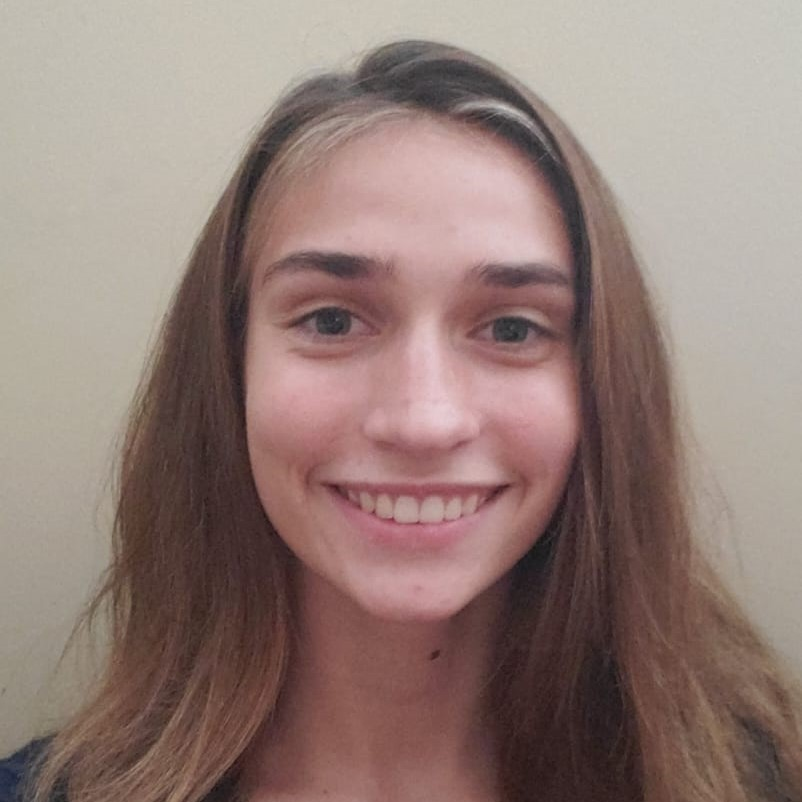
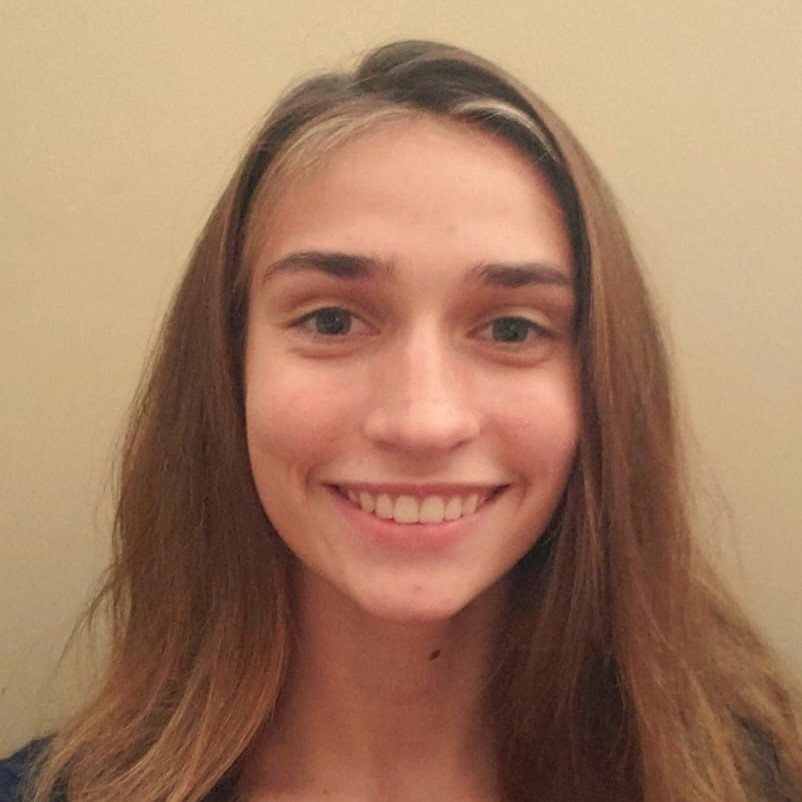
Color Grading/About Edits

diff --git a/nebula-details.html b/nebula-details.html
@@ -121,9 +121,20 @@
               <h2>To Make My Game Endevours Easier</h2>
               <p>
                 <br>Nebula is a collection of reusable tools that I've built to make my game dev journeys easier and quicker. This is my favorite type of software; build a complicated system once and then use it indefinitely.</br>
-                <br><strong>State Machine</strong>: This tool is my design for an easily configurable state machine. In traditional state machines, transitions between states can have a somewhat annoying coupling between different state classes. With my design you add states to a state machine with a list of allowed transitions and a state priority. The state machine will handle the state transitions based off of each state's conditions for entry and priority. In practice this has helped me with two things: I can visualize my state graph easier, often without the use of a physical diagram, and modifying state transitions is quicker. Furthermore, I tried to eliminate more coupling with what I'm calling delegated states. Along with my state machine I have an abstract state class that I've implemented using completely delegated functions. This means a single manager class can manage all the state implementations and the data that each state needs doesn't need to be passed around, copied, or referenced more than once for the state machine to function properly. When I put all of this together I've been able to extreamly easily and quickly put together a state system. This generic code is in my Nebula repository on GitHub, which is linked above, but if you'd like to see a more detailed example/implementation of this system please view this platformer project that I'm working on <a href="https://github.com/Tiane-Maestas/First-Platformer">here</a>; I also used this state machine for the player controller in my puzzle game that is posted in my portfolio.</br>
-                <br><strong>Sound Manager</strong>: This tool is my design for a scene's sound management. It will configure and manage four types of in game sounds: Background, Ambient, Conditional Background, and Conditional Ambient. Background sounds are sounds that can always be heard by the player such as backgound music. Ambient sounds are sounds that have an in game location associated with them such as fire. These sounds will respond to where the palyer is in the scene; if the player is far away the sound will be quiet. Conditional sound types cary the same attributes as their respective bases but do not loop. These are things such as footsteps which should only play while the player is walking. The largest challenge with this system was implementing conditional, ambient sounds becuase there can be, practically, an infinite amount of objects that need a location for the sound source but also there needs to be a way for programtic access and modification of these sources. The details are slightly too combersome to explain consicely here but it is all documented in the code on GitHub. </br>
-                <br><strong>Utils</strong>: This is simply a collection of one off functions that perform a task that I had found myself needing constantly. Examples include: rotating a vector by a specified angle, printing text to the screen for debugging, and smoothing vector values by a specified ratio.</br>
+                <br><strong>State Machine</strong>: This tool is my design for an easily configurable state machine. In traditional state machines, transitions between states can have a somewhat annoying coupling between different state classes. With
+                my design you add states to a state machine with a list of allowed transitions and a state priority. The state machine will handle the state transitions based off of each state's conditions for entry and priority. In practice this has
+                helped me with two things: I can visualize my state graph easier, often without the use of a physical diagram, and modifying state transitions is quicker. Furthermore, I tried to eliminate more coupling with what I'm calling delegated
+                states. Along with my state machine I have an abstract state class that I've implemented using completely delegated functions. This means a single manager class can manage all the state implementations and the data that each state
+                needs doesn't need to be passed around, copied, or referenced more than once for the state machine to function properly. When I put all of this together I've been able to extreamly easily and quickly put together a state system. This
+                generic code is in my Nebula repository on GitHub, which is linked above, but if you'd like to see a more detailed example/implementation of this system please view this platformer project that I'm working on <a
+                  href="https://github.com/Tiane-Maestas/First-Platformer">here</a>; I also used this state machine for the player controller in my puzzle game that is posted in my portfolio.</br>
+                <br><strong>Sound Manager</strong>: This tool is my design for a scene's sound management. It will configure and manage four types of in game sounds: Background, Ambient, Conditional Background, and Conditional Ambient. Background
+                sounds are sounds that can always be heard by the player such as backgound music. Ambient sounds are sounds that have an in game location associated with them such as fire. These sounds will respond to where the palyer is in the
+                scene; if the player is far away the sound will be quiet. Conditional sound types cary the same attributes as their respective bases but do not loop. These are things such as footsteps which should only play while the player is
+                walking. The largest challenge with this system was implementing conditional, ambient sounds becuase there can be, practically, an infinite amount of objects that need a location for the sound source but also there needs to be a way
+                for programtic access and modification of these sources. The details are slightly too combersome to explain consicely here but it is all documented in the code on GitHub. </br>
+                <br><strong>Utils</strong>: This is simply a collection of one off functions that perform a task that I had found myself needing constantly. Examples include: rotating a vector by a specified angle, printing text to the screen for
+                debugging, and smoothing vector values by a specified ratio.</br>
               </p>
             </div>
           </div>

diff --git a/game-details.html b/game-details.html
@@ -109,7 +109,7 @@
             </div>
           </div>
 
-          <div class="col-lg-4"  style="overflow-y:auto; height: 500px;">
+          <div class="col-lg-4" style="overflow-y:auto; height: 500px;">
             <div class="portfolio-info">
               <h3>Project Information</h3>
               <ul>
@@ -121,10 +121,17 @@
             <div class="portfolio-description">
               <h2>My First Complete Game</h2>
               <p>
-                <br>The idea behind this game started out as a joke with a freind of mine which has lead this project to be treated more as practice and fun for myself rather than as an outlet for ambition or a source of income. If you are actually interested in playing the game I have a build for windows in the google drive link above.</br>
-                <br><strong>Premise</strong>: A caveman see's glimpses of shiny objects throughout a cave filled with magical stones. With his ingenius new invention, the slingshot, he uses these stones to solve puzzles and collect his presious, gleaming objects.</br>
-                <br><strong>Techincal Background</strong>: This game has two main game mechanics: Slingshotting magical stones and solving puzzles. The slingshot mechanic uses one of my top two game design patterns the Strategy Pattern. There are 7 different types of stones that the player can use to solve puzzles; each stone has a different behaviour. This changing behaviour is streamlined to implement, easy to follow, and easy to change/debug all because of some fancy use of dependency inversion; I absolutely love this pattern. The second mechanic, puzzles, are implemented using the Observer Pattern. This was a great way for me to decouple the dependencies between classes and make world building extreamly streamlined and easy. I created a small collection of prefabricated puzzle tools that could be pieced together any way I liked to eventually trigger a new part of the map to be unlocked; great pattern as well. There was a lot more that went on to get the game to this state but these two things are the biggest. Please checkout my other project posted named "Nebula" for some more insight on the software that I made during this time.</br> 
-                <br>I have worked on game projects before, but this was the first time I've finsihed a project with a complete, playable game loop. Overall this was a great experience for me. I thouroughly enjoyed the whole process and I am very proud of what I've learned and what I've produced in the relatively short amount of time I spent creating this. Thank you.</br> 
+                <br>The idea behind this game started out as a joke with a freind of mine which has lead this project to be treated more as practice and fun for myself rather than as an outlet for ambition or a source of income. If you are actually
+                interested in playing the game I have a build for windows in the google drive link above.</br>
+                <br><strong>Premise</strong>: A caveman see's glimpses of shiny objects throughout a cave filled with magical stones. With his ingenius new invention, the slingshot, he uses these stones to solve puzzles and collect his presious,
+                gleaming objects.</br>
+                <br><strong>Techincal Background</strong>: This game has two main game mechanics: Slingshotting magical stones and solving puzzles. The slingshot mechanic uses one of my top two game design patterns the Strategy Pattern. There are 7
+                different types of stones that the player can use to solve puzzles; each stone has a different behaviour. This changing behaviour is streamlined to implement, easy to follow, and easy to change/debug all because of some fancy use of
+                dependency inversion; I absolutely love this pattern. The second mechanic, puzzles, are implemented using the Observer Pattern. This was a great way for me to decouple the dependencies between classes and make world building extreamly
+                streamlined and easy. I created a small collection of prefabricated puzzle tools that could be pieced together any way I liked to eventually trigger a new part of the map to be unlocked; great pattern as well. There was a lot more
+                that went on to get the game to this state but these two things are the biggest. Please checkout my other project posted named "Nebula" for some more insight on the software that I made during this time.</br>
+                <br>I have worked on game projects before, but this was the first time I've finsihed a project with a complete, playable game loop. Overall this was a great experience for me. I thouroughly enjoyed the whole process and I am very
+                proud of what I've learned and what I've produced in the relatively short amount of time I spent creating this.</br>
               </p>
             </div>
           </div>

diff --git a/zooseeker-details.html b/zooseeker-details.html
@@ -109,7 +109,7 @@
             </div>
           </div>
 
-          <div class="col-lg-4"  style="overflow-y:auto; height: 500px;">
+          <div class="col-lg-4" style="overflow-y:auto; height: 500px;">
             <div class="portfolio-info">
               <h3>Project Information</h3>
               <ul>
@@ -121,7 +121,9 @@
               <h2>An Android App for The San Diego Zoo</h2>
               <p>
                 <br>This project is the only project in my portfolio that I completed for a grade in school. I worked in a team of 6 people.</br>
-                <br><strong>My Role</strong>: I designed the itinerary creation and managment as well as the GPS dynamic directions functionality. We represented the San Diego Zoo as an undirected, weighted graph and used various graph algorithms to calcualte an itinerary for the user. This itinerary would then dynamically update if the user veered offtrack and a better route became available. The end product uses your phone's GPS location via shared data and can be mocked by the in app location mocker as it was necessary for testing and demoing for our final grade. My job eventually extended to connecting and managing the final product and all of its pieces as well.</br>
+                <br><strong>My Role</strong>: I designed the itinerary creation and managment as well as the GPS dynamic directions functionality. We represented the San Diego Zoo as an undirected, weighted graph and used various graph algorithms to
+                calcualte an itinerary for the user. This itinerary would then dynamically update if the user veered offtrack and a better route became available. The end product uses your phone's GPS location via shared data and can be mocked by the
+                in app location mocker as it was necessary for testing and demoing for our final grade. My job eventually extended to connecting and managing the final product and all of its pieces as well.</br>
               </p>
             </div>
           </div>

diff --git a/index.html b/index.html
@@ -102,7 +102,6 @@
               </div>
               <div class="col-lg-6">
                 <ul>
-
                   <li><i class="bi bi-chevron-right"></i> <strong>Major:</strong> <span>Physics w/ Specialization in Astrophysics</span></li>
                   <li><i class="bi bi-chevron-right"></i> <strong>Minor:</strong> <span>Computer Science Engineering</span></li>
                   <li><i class="bi bi-chevron-right"></i> <strong>Phone:</strong> <span>+1 760-524-7077</span></li>
@@ -111,7 +110,11 @@
               </div>
             </div>
             <p>
-              I am currently a UCSD senior studying under Revelle College. I enjoy puzzles and problem solving and am fascinated by space; when I was a kid I wanted to be an astronaut. TODO.
+              <br>I am currently a UCSD senior studying under Revelle College. I enjoy puzzles and problem solving and am fascinated by space; when I was a kid I wanted to be an astronaut. In school, I am studying physics becuase I enjoy the problems
+              that the field brings, most of the time. Physics also satisfies my curiousity about the world and how it works. As I grew older I also developed an interest in computers and software so I decided to add a minor in copmuter
+              science engineering to my degree. Overtime I've found that, while I really appreciate physics, I have a lot of fun with software and the type of problem solving that it uses. More than this, I've found that I have a talent for
+              developing software that's greater than my other skills.</br>
+              <br></br>
             </p>
           </div>
         </div>
